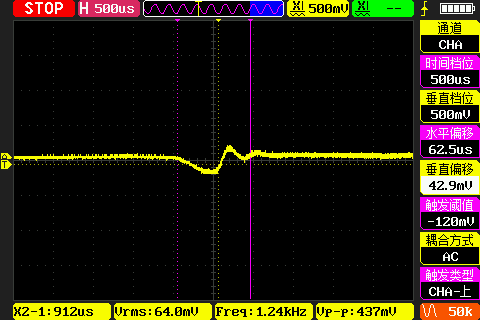
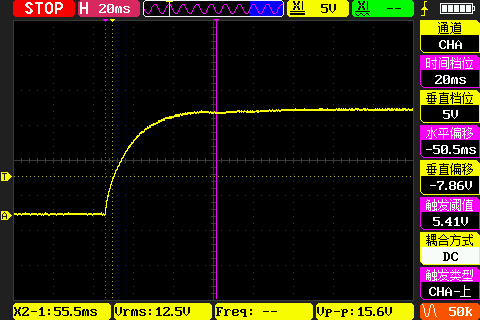
波形图第 11 张换成 15V 空载上电启动

diff --git a/index.html b/index.html
@@ -217,11 +217,11 @@
         <figure class="shot">
           <button class="shot__btn" type="button">
             <img src="images/thumb/wave-03.png" width="480" height="320" loading="lazy" decoding="async"
-                 alt="示波器测得负载从 1 安培跳变到 3 安培时的输出电压瞬态波形">
+                 alt="示波器测得电源空载上电启动时，输出电压由零上升到设定值的波形">
           </button>
           <figcaption>
             <span class="shot__no">11</span>
-            <span class="shot__text">负载跳变 1 A → 3 A</span>
+            <span class="shot__text">空载上电启动</span>
           </figcaption>
         </figure>
 
